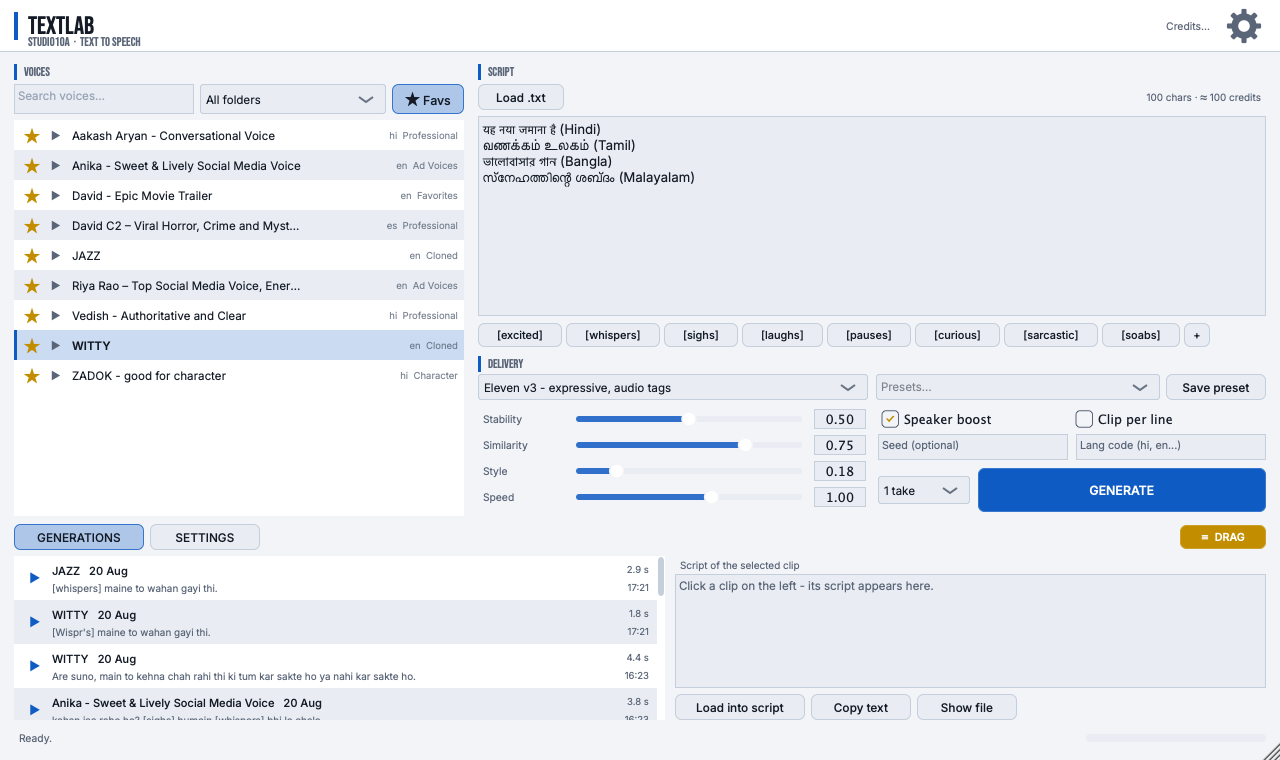
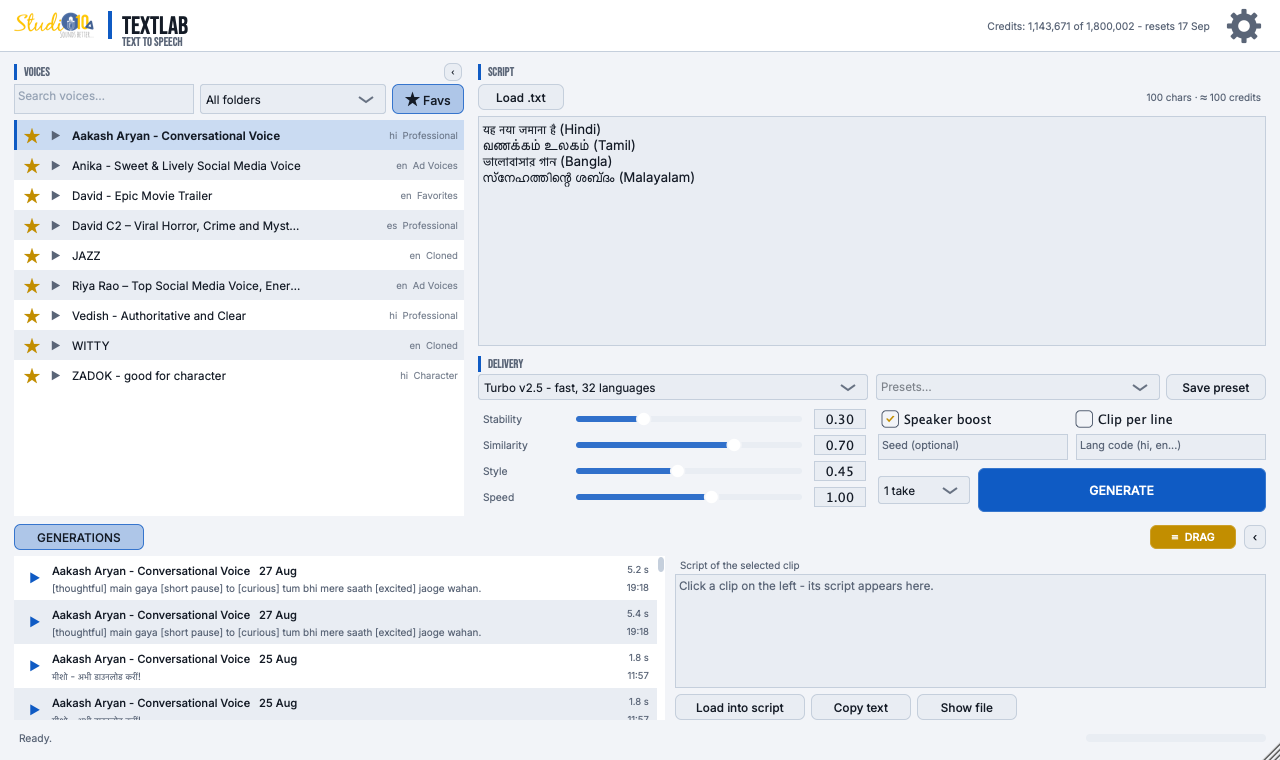
Voice Suite page: fresh 1.6.0 screenshots and a what's-new section
Every plugin shot was a version behind and none of them showed the thing the
release is actually about.

New shots, dark and light, straight from the in-repo snapshot harnesses:
VoiceLab Track with the take lanes populated and the playhead on them, and
TextLab with the new branded header. The Track caption now describes what the
picture shows rather than the panel it replaced.

New section, "Comp your takes the way a DAW does", sitting right after the
screenshots: a wide shot of the lanes, four cards for the things you can only
appreciate by seeing them - a take per clip that stays, cursor jumps splitting
a TRANSFER into separate clips, dragging anything anywhere, and zooming from
the ends of the scrollbar - then two detail crops for the single-line clip row
and the fold-away panels.

The VoiceLab Track card in "What it does" now mentions the lanes and the
cursor-jump split. Help guide is seven pages, not six.

The VoiceLab shot is still the REAPER one from 1.5.x: it shows the plugin
inside a real session, which the harness cannot reproduce, and only its header
has changed. Worth a re-shoot in REAPER when convenient.

Checked at 1400 wide in headless Chrome, all 17 images load, and every
if-dark shot has an if-light twin at identical dimensions.

diff --git a/voicesuite.html b/voicesuite.html
@@ -141,7 +141,28 @@ footer b { color:var(--gold); font-weight:600; }
     <p class="shotcap">TextLab - script on the right, your voice library on the left, every generation kept with its text</p>
     <img class="shot if-dark" src="assets/voicesuite/voicelabtrack-dark.png" alt="Studio10a VoiceLab Track - drag audio in, convert, drag it back" loading="lazy" style="margin-top:1.6rem;">
     <img class="shot if-light" src="assets/voicesuite/voicelabtrack-light.png" alt="Studio10a VoiceLab Track - light skin" loading="lazy" style="margin-top:1.6rem;">
-    <p class="shotcap">VoiceLab Track - the source panel with trim, and every conversion one drag from your timeline</p>
+    <p class="shotcap">VoiceLab Track - clips along the timeline, every take stacked in a lane under its own clip</p>
+  </div>
+</section>
+
+<section class="tintband">
+  <div class="wrap">
+    <span class="kicker">New in 1.6.0</span>
+    <h2>Comp your takes <em>the way a DAW does</em></h2>
+    <p style="color:var(--soft); max-width:60ch;">VoiceLab Track's whole clip side was rebuilt. Your captured clips lie along a timeline, and every alternative take sits in a lane directly under the clip it came from. A clip tried in five voices is a column five deep.</p>
+    <img class="shot if-dark" src="assets/voicesuite/lanes-detail.png" alt="Take lanes - clips along a timeline with alternative voices stacked underneath" loading="lazy" style="margin-top:1.4rem;">
+    <img class="shot if-light" src="assets/voicesuite/lanes-detail-light.png" alt="Take lanes - light skin" loading="lazy" style="margin-top:1.4rem;">
+    <p class="shotcap">One colour per voice, held across every clip - click a block and that clip plays that take</p>
+    <div class="cards" style="margin-top:1.8rem;">
+      <div class="card"><span class="no">NEW</span><h3>A take per clip, and it stays</h3><p>Clip one on one voice, clip two on another, clip three on a third - each keeps its own choice. HOST SYNC plays all of them where they belong, so what you hear is what you see lit. Saved with the project, so it is still there tomorrow.</p></div>
+      <div class="card"><span class="no">NEW</span><h3>Jump the cursor, get separate clips</h3><p>Arm TRANSFER, play, and jump the playhead between the takes you care about. Each jump starts a new clip, stamped where you landed. One pass over three takes gives you three clips in the right places instead of one long run with the gaps baked in.</p></div>
+      <div class="card"><span class="no">NEW</span><h3>Everything drags</h3><p>Takes, clips, and rows in the list all drag straight onto your timeline. Shift-click gathers several across clips and carries them out together.</p></div>
+      <div class="card"><span class="no">NEW</span><h3>Scroll and zoom from the scrollbar</h3><p>Drag the middle to slide, drag either end to zoom, double-click to fit. Optional playhead on the lanes, and auto-scroll to follow it while the transport rolls.</p></div>
+    </div>
+    <div class="detailgrid" style="margin-top:2rem;">
+      <div><img class="shot if-dark" src="assets/voicesuite/sourceline-detail.png" alt="Source panel with clip details on one line" loading="lazy"><img class="shot if-light" src="assets/voicesuite/sourceline-detail-light.png" alt="Source panel - light skin" loading="lazy"><p class="shotcap">One clip row instead of two - name, length and where it lands, on a single line</p></div>
+      <div><img class="shot if-dark" src="assets/voicesuite/folded-detail.png" alt="Voices list and generations list folded away" loading="lazy"><img class="shot if-light" src="assets/voicesuite/folded-detail-light.png" alt="Folded panels - light skin" loading="lazy"><p class="shotcap">Fold the voices list and the bottom panel away when you want the room</p></div>
+    </div>
   </div>
 </section>
 
@@ -165,7 +186,7 @@ footer b { color:var(--gold); font-weight:600; }
     <h2>Made by a producer, <em>for producers</em></h2>
     <div class="cards">
       <div class="card"><span class="no">01</span><h3>VoiceLab - voice to voice</h3><p>Put it on a clip, pick a voice, press Convert. The clip plays in the new voice - the original untouched, one click away. Every conversion becomes a VERSION chip: A/B instantly, keep them all in the project.</p></div>
-      <div class="card"><span class="no">02</span><h3>VoiceLab Track - any track, any DAW</h3><p>A normal insert plugin: drop audio in, or arm TRANSFER and simply play - it records what flows through the track, timeline-stamped. Trim, pick a voice, Convert; the take is one drag from your timeline. Logic, GarageBand, Ableton, anything.</p></div>
+      <div class="card"><span class="no">02</span><h3>VoiceLab Track - any track, any DAW</h3><p>A normal insert plugin: drop audio in, or arm TRANSFER and simply play - it records what flows through the track, timeline-stamped, splitting into separate clips wherever you jump the cursor. Every take lands in a lane under its own clip, colour-coded by voice, one drag from your timeline. Logic, GarageBand, Ableton, anything.</p></div>
       <div class="card"><span class="no">03</span><h3>TextLab - text to speech</h3><p>Type or paste a script - Hindi, Tamil, Bangla, English, 70+ languages. On a clip, the clip becomes the speech. On a track, generate and drag. Emotion tags, multiple takes per line, per-line batching. ENHANCE places the tags for you - on your own free Gemini or Groq key, so it costs nothing.</p></div>
       <div class="card"><span class="no">04</span><h3>Your whole voice library</h3><p>Search, folders, favourites and free auditioning across every voice on your ElevenLabs account - synced in one click, shared by all three plugins, with a live credit meter so cost is never a surprise.</p></div>
       <div class="card"><span class="no">05</span><h3>Batch and versions</h3><p>Select many clips, convert them all with one press. One to three takes per generation with reproducible seeds. Twenty versions per clip, each addressable from the keyboard.</p></div>
@@ -188,7 +209,7 @@ footer b { color:var(--gold); font-weight:600; }
       <span class="k">Hosts</span><span class="v">VoiceLab: Studio One, Nuendo, REAPER (ARA2). VoiceLab Track + TextLab: any VST3 or AU DAW - Logic Pro and GarageBand included</span>
       <span class="k">Systems</span><span class="v">macOS 11+ (Apple Silicon + Intel, universal) &middot; Windows 10+ (64-bit)</span>
       <span class="k">Requires</span><span class="v">Your own ElevenLabs account and API key (free tier works; generations use your credits)</span>
-      <span class="k">Included</span><span class="v">All three plugins, six-page help guide, uninstaller</span>
+      <span class="k">Included</span><span class="v">All three plugins, seven-page help guide, uninstaller</span>
       <span class="k">Version</span><span class="v">1.6.0 - 27 August 2026 (Mac pkg or manual zip: VST3 + AU &middot; Windows installer or manual zip: VST3)</span>
     </div>
   </div>
